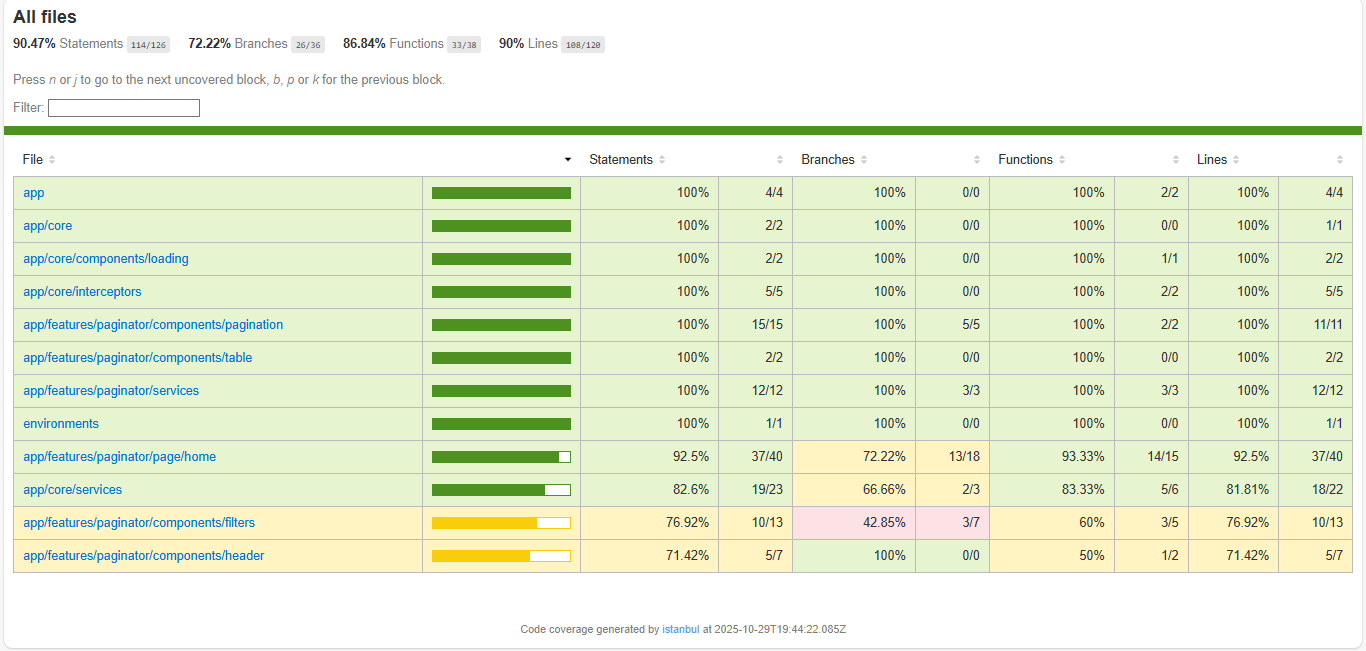
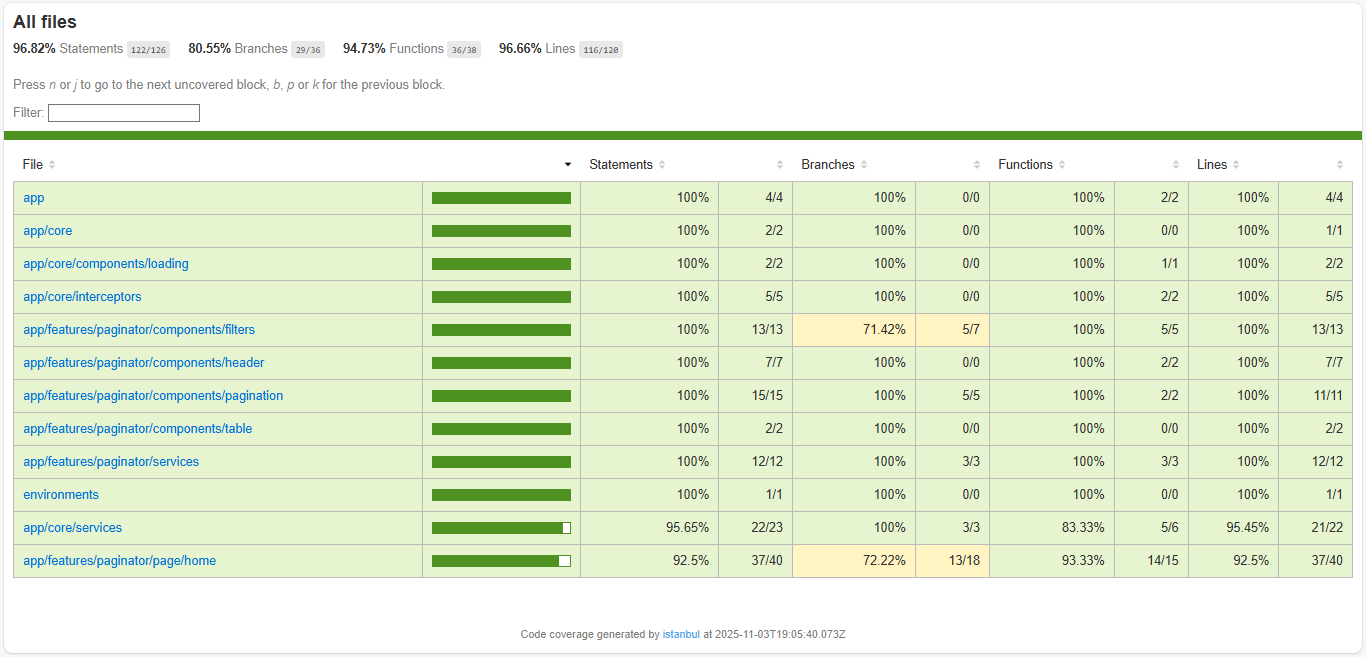
add test

Changed region(s): [[0.0, 0.0, 1.0, 0.8909], [0.369, 0.9524, 0.6149, 0.9831]]

diff --git a/src/app/core/services/theme.service.spec.ts b/src/app/core/services/theme.service.spec.ts
@@ -1,16 +1,50 @@
 import { TestBed } from '@angular/core/testing';
 
 import { ThemeService } from './theme.service';
+import { PLATFORM_ID } from '@angular/core';
 
 describe('ThemeService', () => {
   let service: ThemeService;
 
   beforeEach(() => {
-    TestBed.configureTestingModule({});
+    TestBed.configureTestingModule({
+      providers: [ ThemeService, { provide: PLATFORM_ID, useValue: 'browser' }]
+    });
     service = TestBed.inject(ThemeService);
+
+    spyOn(document.body.classList, 'toggle');
+    spyOn(localStorage, 'setItem');
+    spyOn(localStorage, 'getItem').and.returnValue('false');
   });
 
   it('should be created', () => {
     expect(service).toBeTruthy();
   });
+
+  it('debería establecer isBrowser en true cuando el PLATFORM_ID es "browser"', () => {
+    expect(service.isBrowser).toBeTrue();
+  });
+
+  it('toggleDarkMode debería alternar el modo oscuro', () => {
+    service.toggleDarkMode();
+
+    expect(service.isDarkMode).toBeTrue();
+    expect(document.body.classList.toggle).toHaveBeenCalledWith('dark-mode', true);
+    expect(localStorage.setItem).toHaveBeenCalledWith('darkMode', 'true');
+
+    service.toggleDarkMode();
+    expect(service.isDarkMode).toBeFalse();
+    expect(document.body.classList.toggle).toHaveBeenCalledWith('dark-mode', false);
+    expect(localStorage.setItem).toHaveBeenCalledWith('darkMode', 'false');
+  });
+
+  it('initializeTheme con valor "false" en localStorage', () => {
+    (localStorage.getItem as jasmine.Spy).and.returnValue('false');
+
+    service.initializeTheme();
+
+    expect(service.isDarkMode).toBeFalse();
+    expect(document.body.classList.toggle).toHaveBeenCalledWith('dark-mode', false);
+  });
+
 });

diff --git a/src/app/features/paginator/components/filters/filters.component.spec.ts b/src/app/features/paginator/components/filters/filters.component.spec.ts
@@ -2,6 +2,7 @@ import { ComponentFixture, TestBed } from '@angular/core/testing';
 
 import { FiltersComponent } from './filters.component';
 import { ReactiveFormsModule } from '@angular/forms';
+import { take } from 'rxjs';
 
 describe('FiltersComponent', () => {
   let component: FiltersComponent;
@@ -12,7 +13,7 @@ describe('FiltersComponent', () => {
       declarations: [FiltersComponent],
       imports: [ReactiveFormsModule]
     })
-    .compileComponents();
+      .compileComponents();
 
     fixture = TestBed.createComponent(FiltersComponent);
     component = fixture.componentInstance;
@@ -22,4 +23,31 @@ describe('FiltersComponent', () => {
   it('should create', () => {
     expect(component).toBeTruthy();
   });
+
+  it('debería emitir el nuevo estado cuando cambia el FormControl stateControl', (done) => {
+    component.ngOnInit();
+
+    component.stateChanged
+      .pipe(take(1))
+      .subscribe(value => {
+        expect(value).toBe('CA');
+        done();
+      });
+
+    component.stateControl.setValue('CA');
+  });
+
+  it('debería emitir el nuevo tamaño de página cuando cambia pageSizeControl', (done) => {
+    component.ngOnInit();
+
+    component.pageSizeChanged
+      .pipe(take(1))
+      .subscribe(value => {
+        expect(value).toBe(25);
+        done();
+      });
+
+    component.pageSizeControl.setValue(25);
+  });
+
 });

diff --git a/src/app/features/paginator/components/header/header.component.spec.ts b/src/app/features/paginator/components/header/header.component.spec.ts
@@ -1,23 +1,38 @@
 import { ComponentFixture, TestBed } from '@angular/core/testing';
 
 import { HeaderComponent } from './header.component';
+import { ThemeService } from '../../../../core/services/theme.service';
 
 describe('HeaderComponent', () => {
   let component: HeaderComponent;
   let fixture: ComponentFixture<HeaderComponent>;
+  let themeServiceSpy: jasmine.SpyObj<ThemeService>;
 
   beforeEach(async () => {
+    const spy = jasmine.createSpyObj('ThemeService', 
+      ['initializeTheme', 'toggleDarkMode'],
+      { currentMode: false }
+    );
+
     await TestBed.configureTestingModule({
-      declarations: [HeaderComponent]
+      declarations: [HeaderComponent],
+      providers: [{ provide: ThemeService, useValue: spy }]
     })
     .compileComponents();
 
     fixture = TestBed.createComponent(HeaderComponent);
     component = fixture.componentInstance;
+    themeServiceSpy = TestBed.inject(ThemeService) as jasmine.SpyObj<ThemeService>;
     fixture.detectChanges();
   });
 
   it('should create', () => {
     expect(component).toBeTruthy();
   });
+
+  it('debería llamar a toggleDarkMode() del servicio cuando se ejecuta toggleTheme()', () => {
+    component.toggleTheme();
+    expect(themeServiceSpy.toggleDarkMode).toHaveBeenCalled();
+  });
+
 });
